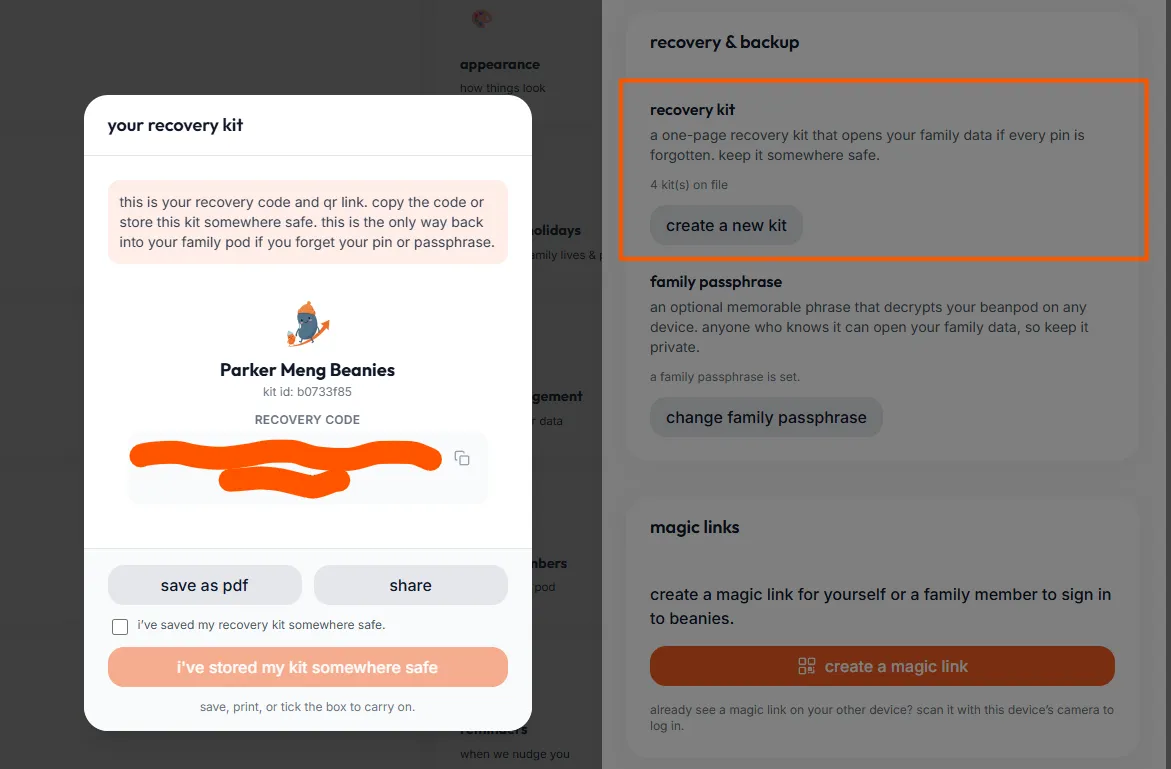
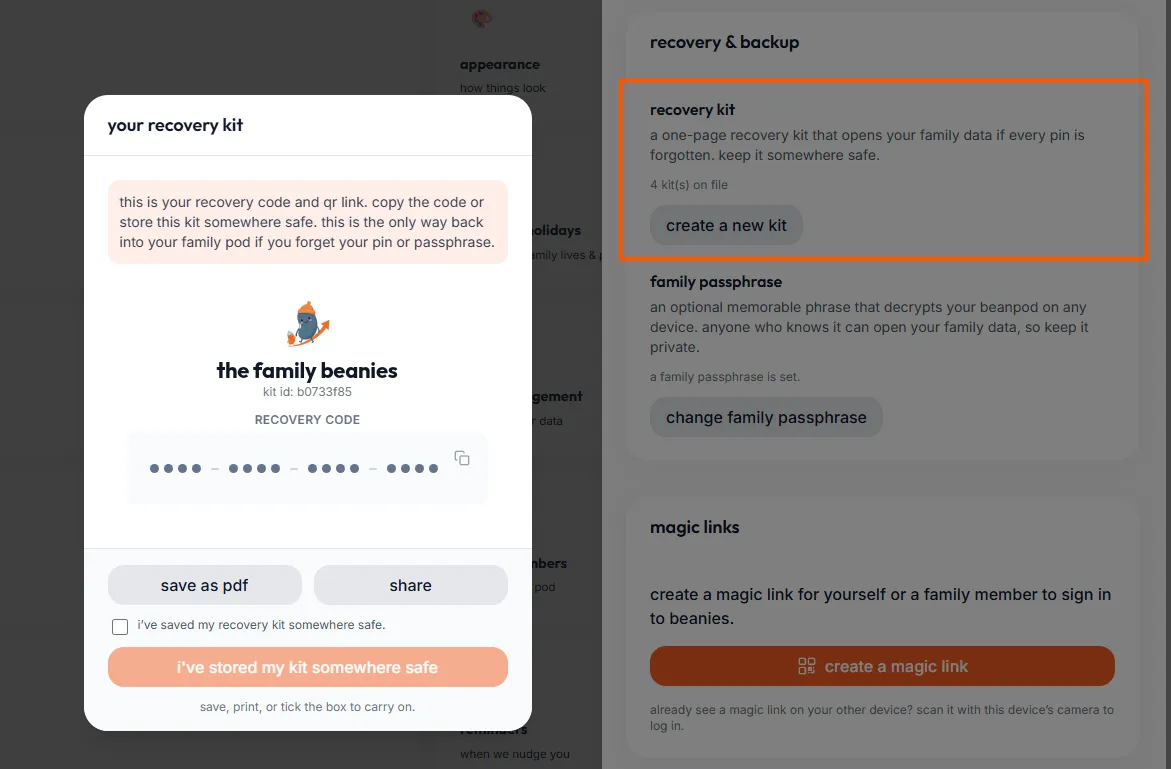
docs(blog): post 62 recovery kit screenshot gets a clean code mask and a neutral family name

Changed region(s): [[0.0922, 0.5618, 0.3997, 0.6554], [0.1845, 0.4681, 0.3382, 0.4993]]

diff --git a/content/blog/2026-10-02-passwords-are-so-two-thousand-and-late.md b/content/blog/2026-10-02-passwords-are-so-two-thousand-and-late.md
@@ -68,7 +68,7 @@ Allow me to introduce: the [_**beanies recovery kit**_](https://beanies.family/h
 
 If you’ve been snooping around the settings menus (which is one of my favorite pastimes) you may have noticed this new little gem:
 
-![The recovery & backup section in beanies.family settings with the recovery kit card highlighted, and the "your recovery kit" dialog open showing a family's recovery code, scribbled out, with save as pdf and share buttons](/blog/passwords-settings-recovery-kit.webp)
+![The recovery & backup section in beanies.family settings with the recovery kit card highlighted, and the "your recovery kit" dialog open for the family beanies with the recovery code masked, and save as pdf and share buttons](/blog/passwords-settings-recovery-kit.webp)
 
 _this is your last-ditch, forgot-everything-else, just get-me-in unlock method. don’t lose it._
 
